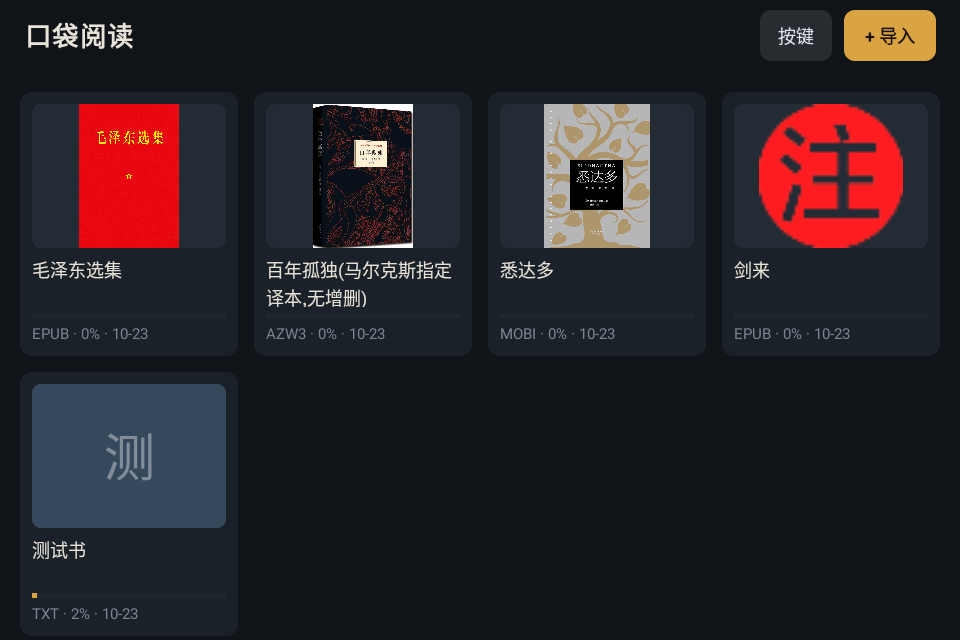
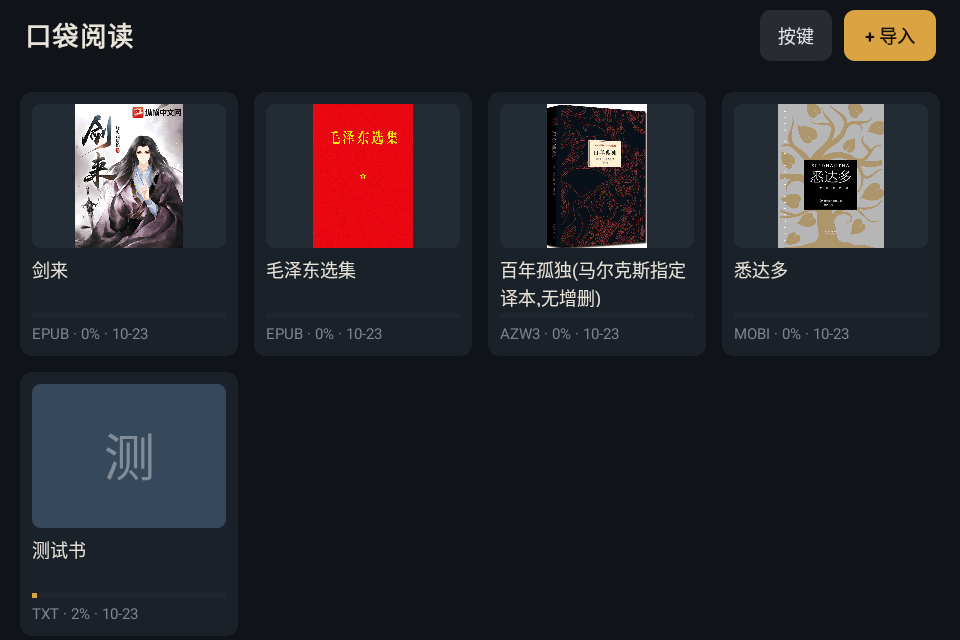
fix: EPUB 封面按 OPF 声明取，不再拿正文第一张图凑数
《剑来》封面取成了书里的红印章 —— 因为之前的逻辑是「blocks 里第一个图片块」，
而这本书正文第一张图是印章/扉页，真正的封面是 OPF 里另外声明的。

EpubParser 按三级优先取封面：
1. EPUB3 `<item properties="cover-image">`
2. EPUB2 `<meta name="cover" content="item-id">`
3. 兜底：id 或文件名里带 cover 的图片

封面图即使正文没有引用（没有封面页的 EPUB 很常见）也一并存进 images，
否则书架拿不到文件。

BookImporter 的封面优先级改为：解析器声明的 > 正文第一张图 > 提取出的第一张
（最后一步是给 MOBI/AZW3 兜底的，它们的图片按 recindex 引用、不进 blocks）。
remapImages 现在返回 nameMap，用于把解析器给的 zip 路径映射成本地文件名。

真机验证：同一份《剑来》重新导入，封面正确（古风人物 + 书法标题）。

注意：旧记录无法就地修正 —— 缓存里只有 img_0.jpg 这类编号名，
原始 zip 路径没保留，反推不出声明的封面，只能重导。

diff --git a/app/src/main/java/com/kpa/reader/book/BookImporter.kt b/app/src/main/java/com/kpa/reader/book/BookImporter.kt
@@ -29,7 +29,9 @@ object BookImporter {
         val chapters: List<Chapter>,
         val images: Map<String, ByteArray>,
         val format: String,
-        val encoding: String
+        val encoding: String,
+        /** 解析器声明的封面（images 里的原始 key）；空表示没声明 */
+        val cover: String = ""
     )
 
     suspend fun import(context: Context, uri: Uri): Book {
@@ -50,7 +52,8 @@ object BookImporter {
                     chapters = p.chapters,
                     images = p.images,
                     format = "epub",
-                    encoding = "UTF-8"
+                    encoding = "UTF-8",
+                    cover = p.cover
                 )
             }
             ext in setOf("mobi", "azw", "azw3", "prc", "azw4", "pdb") ||
@@ -95,7 +98,7 @@ object BookImporter {
         val id = UUID.randomUUID().toString()
         val dir = File(context.filesDir, "books").apply { mkdirs() }
 
-        val (blocks, images) = remapImages(content.blocks, content.images)
+        val (blocks, images, nameMap) = remapImages(content.blocks, content.images)
 
         File(dir, "$id.txt").writeText(content.text, Charsets.UTF_8)
         File(dir, "$id.blocks").writeText(Document(content.text, blocks).serialize(), Charsets.UTF_8)
@@ -105,9 +108,10 @@ object BookImporter {
             images.forEach { (n, data) -> runCatching { File(imgDir, n).writeBytes(data) } }
         }
 
-        // 封面：EPUB 的封面章节排在最前，直接取正文第一张图；
-        // MOBI/AZW3 的图片按 recindex 引用、不进 blocks，退而取提取出的第一张（img_0）
-        val coverName = blocks.firstOrNull { it.isImage }?.image
+        // 封面优先级：解析器声明的（EPUB 的 OPF cover）> 正文第一张图 > 提取出的第一张
+        // MOBI/AZW3 的图片按 recindex 引用、不进 blocks，所以最后一步是给它们兜底的
+        val coverName = nameMap[content.cover]
+            ?: blocks.firstOrNull { it.isImage }?.image
             ?: images.keys.sorted().firstOrNull()
             ?: ""
 
@@ -134,9 +138,9 @@ object BookImporter {
     private fun remapImages(
         blocks: List<Block>,
         raw: Map<String, ByteArray>
-    ): Pair<List<Block>, Map<String, ByteArray>> {
+    ): Triple<List<Block>, Map<String, ByteArray>, Map<String, String>> {
         if (raw.isEmpty()) {
-            return blocks.filter { !it.isImage } to emptyMap()
+            return Triple(blocks.filter { !it.isImage }, emptyMap(), emptyMap())
         }
         val nameMap = HashMap<String, String>(raw.size)
         val out = LinkedHashMap<String, ByteArray>(raw.size)
@@ -152,7 +156,7 @@ object BookImporter {
         val nb = blocks.mapNotNull { b ->
             if (!b.isImage) b else nameMap[b.image]?.let { b.copy(image = it) }
         }
-        return nb to out
+        return Triple(nb, out, nameMap)
     }
 
     fun imageDir(context: Context, bookId: String): File =

diff --git a/app/src/main/java/com/kpa/reader/book/EpubParser.kt b/app/src/main/java/com/kpa/reader/book/EpubParser.kt
@@ -26,7 +26,9 @@ object EpubParser {
         val text: String,
         val blocks: List<Block>,
         val chapters: List<Chapter>,
-        val images: Map<String, ByteArray>
+        val images: Map<String, ByteArray>,
+        /** OPF 里声明的封面图（zip 路径）；空表示这本书没声明封面 */
+        val cover: String = ""
     )
 
     private const val MAX_IMAGE_BYTES = 64L * 1024 * 1024
@@ -100,6 +102,10 @@ object EpubParser {
 
         val toc = readToc(entries, opfPath, baseDir)
 
+        // 封面按 OPF 声明取，不能拿「正文第一张图」凑数 ——
+        // 很多书第一张图是扉页、印章或出版社 logo（《剑来》就是这样取错的）
+        val coverPath = readCoverHref(opf, baseDir)
+
         val sb = StringBuilder()
         val blocks = ArrayList<Block>()
         val chapters = ArrayList<Chapter>()
@@ -153,7 +159,44 @@ object EpubParser {
         val images = HashMap<String, ByteArray>()
         usedImages.forEach { k -> entries[k]?.let { images[k] = it } }
 
-        return Parsed(bookTitle, author, sb.toString(), blocks, chapters, images)
+        // 封面即使正文没引用（没有封面页的 EPUB 很常见）也要存进去，否则书架没图可用
+        var realCover = ""
+        if (coverPath.isNotBlank()) {
+            val real = entries.keys.firstOrNull { it == coverPath }
+                ?: entries.keys.firstOrNull { it.equals(coverPath, ignoreCase = true) }
+            if (real != null) {
+                images[real] = entries.getValue(real)
+                realCover = real
+            }
+        }
+
+        return Parsed(bookTitle, author, sb.toString(), blocks, chapters, images, realCover)
+    }
+
+    /**
+     * 找 OPF 声明的封面图：
+     * 1. EPUB3 `<item properties="cover-image">`
+     * 2. EPUB2 `<meta name="cover" content="item-id">`
+     * 3. 兜底：id 或文件名里带 cover 的图片
+     */
+    private fun readCoverHref(opf: String, baseDir: String): String {
+        val items = OPF_ITEM.findAll(opf).map { parseAttrs(it.value) }.toList()
+
+        val epub3 = items.firstOrNull { (it["properties"] ?: "").contains("cover-image", true) }
+            ?.get("href")
+
+        val metaId = Regex("<meta\\s+[^>]*name\\s*=\\s*\"cover\"[^>]*>", RegexOption.IGNORE_CASE)
+            .find(opf)?.let { parseAttrs(it.value)["content"] }
+        val epub2 = metaId?.let { id -> items.firstOrNull { it["id"] == id }?.get("href") }
+
+        val byName = items.firstOrNull { a ->
+            val href = a["href"] ?: ""
+            IMG_EXT.any { href.endsWith(it, true) } &&
+                ((a["id"] ?: "").contains("cover", true) || href.contains("cover", true))
+        }?.get("href")
+
+        val href = epub3 ?: epub2 ?: byName ?: return ""
+        return resolvePath(baseDir, href)
     }
 
     private fun readToc(entries: Map<String, ByteArray>, opfPath: String, baseDir: String): Map<String, String> {

diff --git a/README.md b/README.md
@@ -58,7 +58,8 @@
 ### 书架
 
 十字键移动焦点（选中的卡片有金色描边），**A 打开**，长按删除，Y 看说明。
-书卡显示**封面**（EPUB/MOBI/AZW3 取书里第一张图，按比例完整显示）、书名、进度条、
+书卡显示**封面**（EPUB 读 OPF 里 `cover-image` / `<meta name="cover">` 声明的封面；
+MOBI/AZW3 取书内第一张图 —— 它们的图片按 `recindex` 引用，不进块序列）、书名、进度条、
 格式与最近阅读日期。没有封面的 TXT 用书名首字 + 按书 id 取色的色块占位。
 
 ---
@@ -114,6 +115,8 @@
 
 ## 版本
 
+- **1.5.1** EPUB 封面改按 OPF 声明取 —— 原来用「正文第一张图」凑数，
+  《剑来》这类书第一张是印章/扉页，封面就取错了
 - **1.5** 书架显示书籍封面（EPUB/MOBI/AZW3），TXT 用书名首字色块占位；
   已有的旧书启动时自动从缓存里补封面
 - **1.4.1** 导入不再限制 MIME 类型 —— 系统把 `.mobi` 报成「PRC 文件」、`.azw3` 报成「BIN 文件」，
